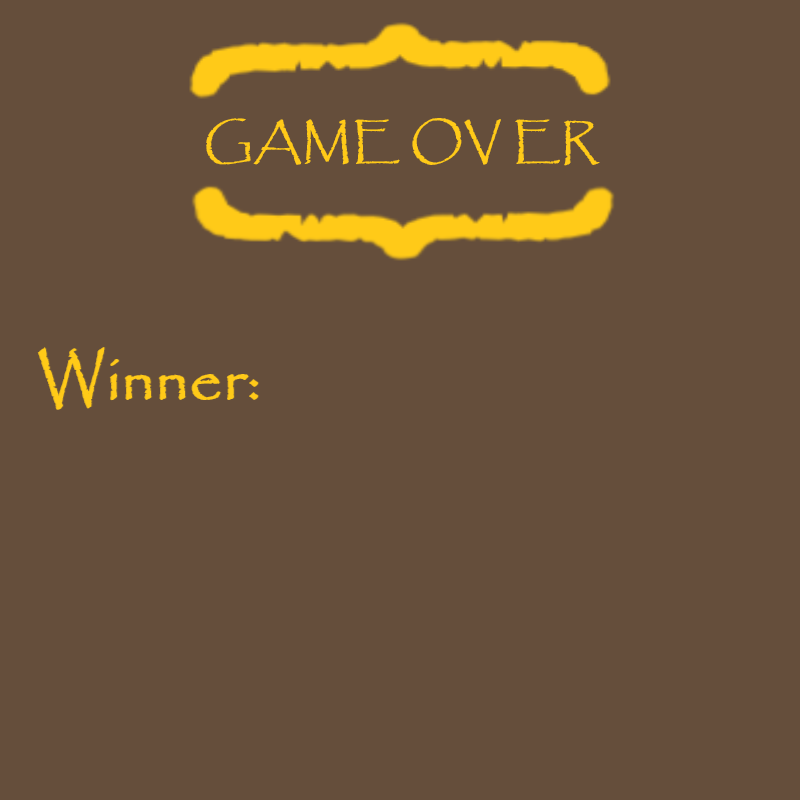
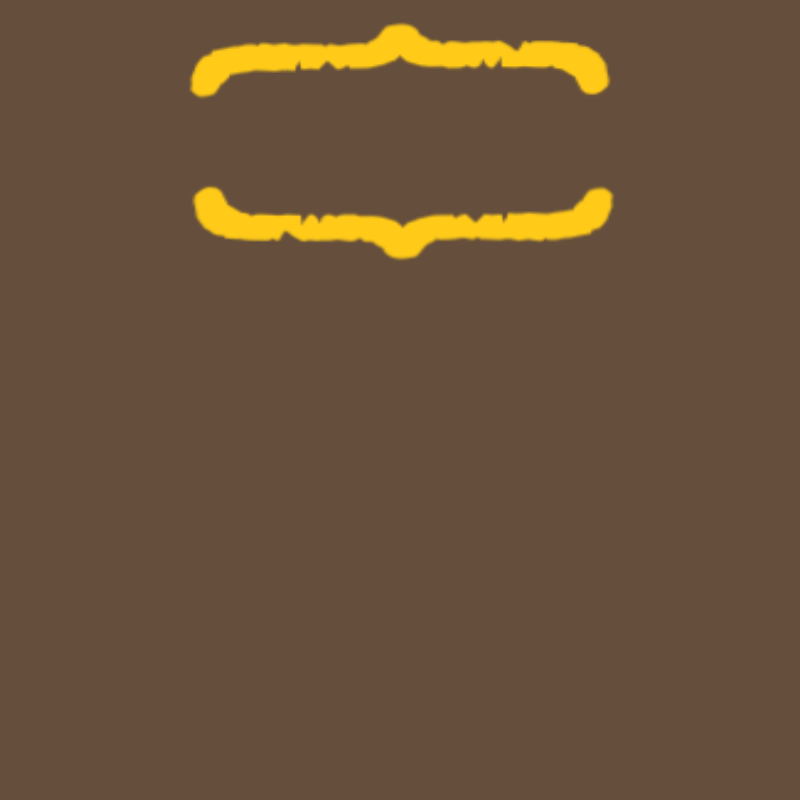
end screen

diff --git a/index.html b/index.html
@@ -52,7 +52,8 @@
         </div>
     </div>
     <div class="endScreen hidden" id="end_screen">
-        <span class="end_text names" id="end_winner"></span>
+        <span class="end_text names" id="end_winner">Winner: </span>
+        <span class="end_logo names">GAME OVER</span>
         <button class="restart_button style_button" id="restart_button" onclick="restart()">Restart</button>
     </div>
     <audio id="game_over" src="data/sounds/game_over.ogg"></audio>

diff --git a/script.js b/script.js
@@ -90,7 +90,7 @@ function show_credits(person) {
     clearInterval(light_flicking);
     document.getElementById('game').classList.add('hidden');
     document.getElementById('end_screen').classList.remove('hidden');
-    document.getElementById('end_winner').textContent = person;
+    document.getElementById('end_winner').textContent += person;
 }
 function check_death(sub_name, person) {
     if (!document.getElementById(sub_name + "_heart"))

diff --git a/styles.css b/styles.css
@@ -211,6 +211,13 @@ img {
     top: 45%;
     left: 35%;
 }
+.end_logo {
+    position: absolute;
+    font-size: calc(8 * var(--min-unit));
+    color: #ffca18;
+    top: 12%;
+    left: 27%;
+}
 .loadingScreen {
     position: fixed;
     top: 0;
